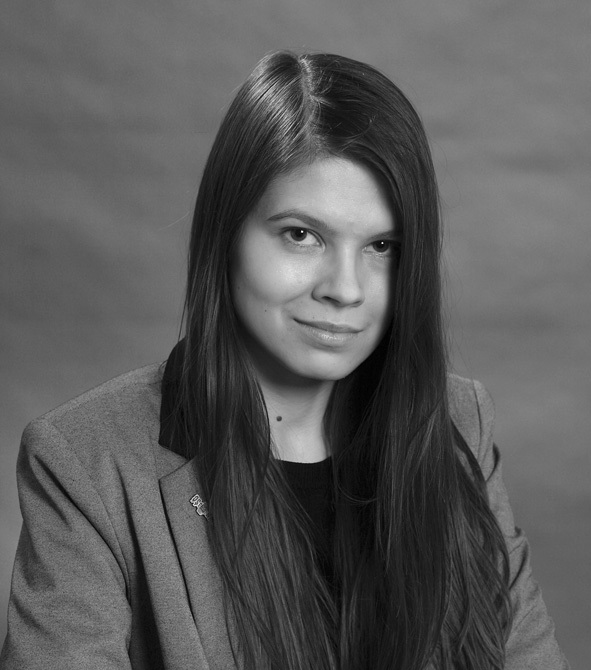
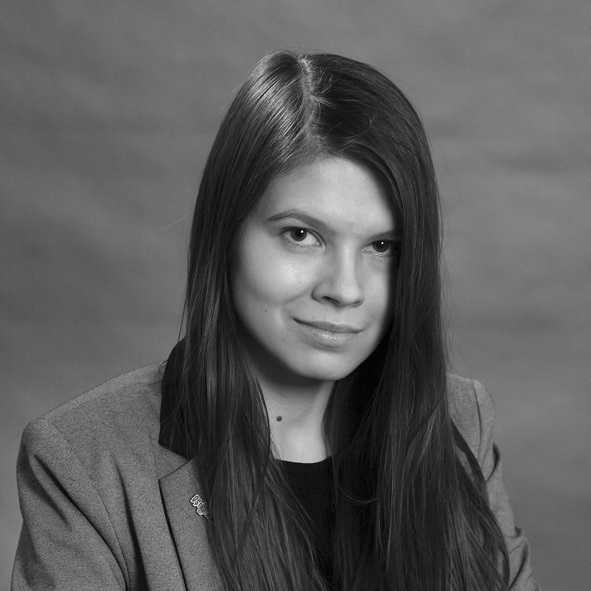
Square profile picture

diff --git a/assets/scss/style.scss b/assets/scss/style.scss
@@ -393,3 +393,14 @@ li.nostyle {
 .icon-twitter{
     color: #55acee;
 }
+
+
+.people-picture{
+    border: 7px solid white;
+    border-radius: 50%;
+    height: auto;
+    margin: 0 auto;
+    max-width: 90%;
+    width: 200px;
+    display: block;
+}

diff --git a/contact.php b/contact.php
@@ -10,7 +10,7 @@ showHead("Kontakt", "&nbsp;");
 			<div id="contactInfo1" class="block grayBlock roksanaBox">
 				<div class="blockContent" style="word-wrap: break-word;padding:50px 0px">
 					<h2 style="margin: 10px 30px">Kontakt</h2>
-					<img class="img-responsive" src="/static/images/roksana_m.jpg" style="width:100%" alt="Roksana Maślankiewicz" />
+					<img class="people-picture" src="/static/images/roksana.jpg" alt="Roksana Maślankiewicz" />
 					<h3 style="margin: 10px 30px"><b>Roksana Maślankiewicz</b></h3>
 					<p style="margin: 10px 30px">Koordynatorka projektu</p>
 					<address style="margin: 0px 30px">
